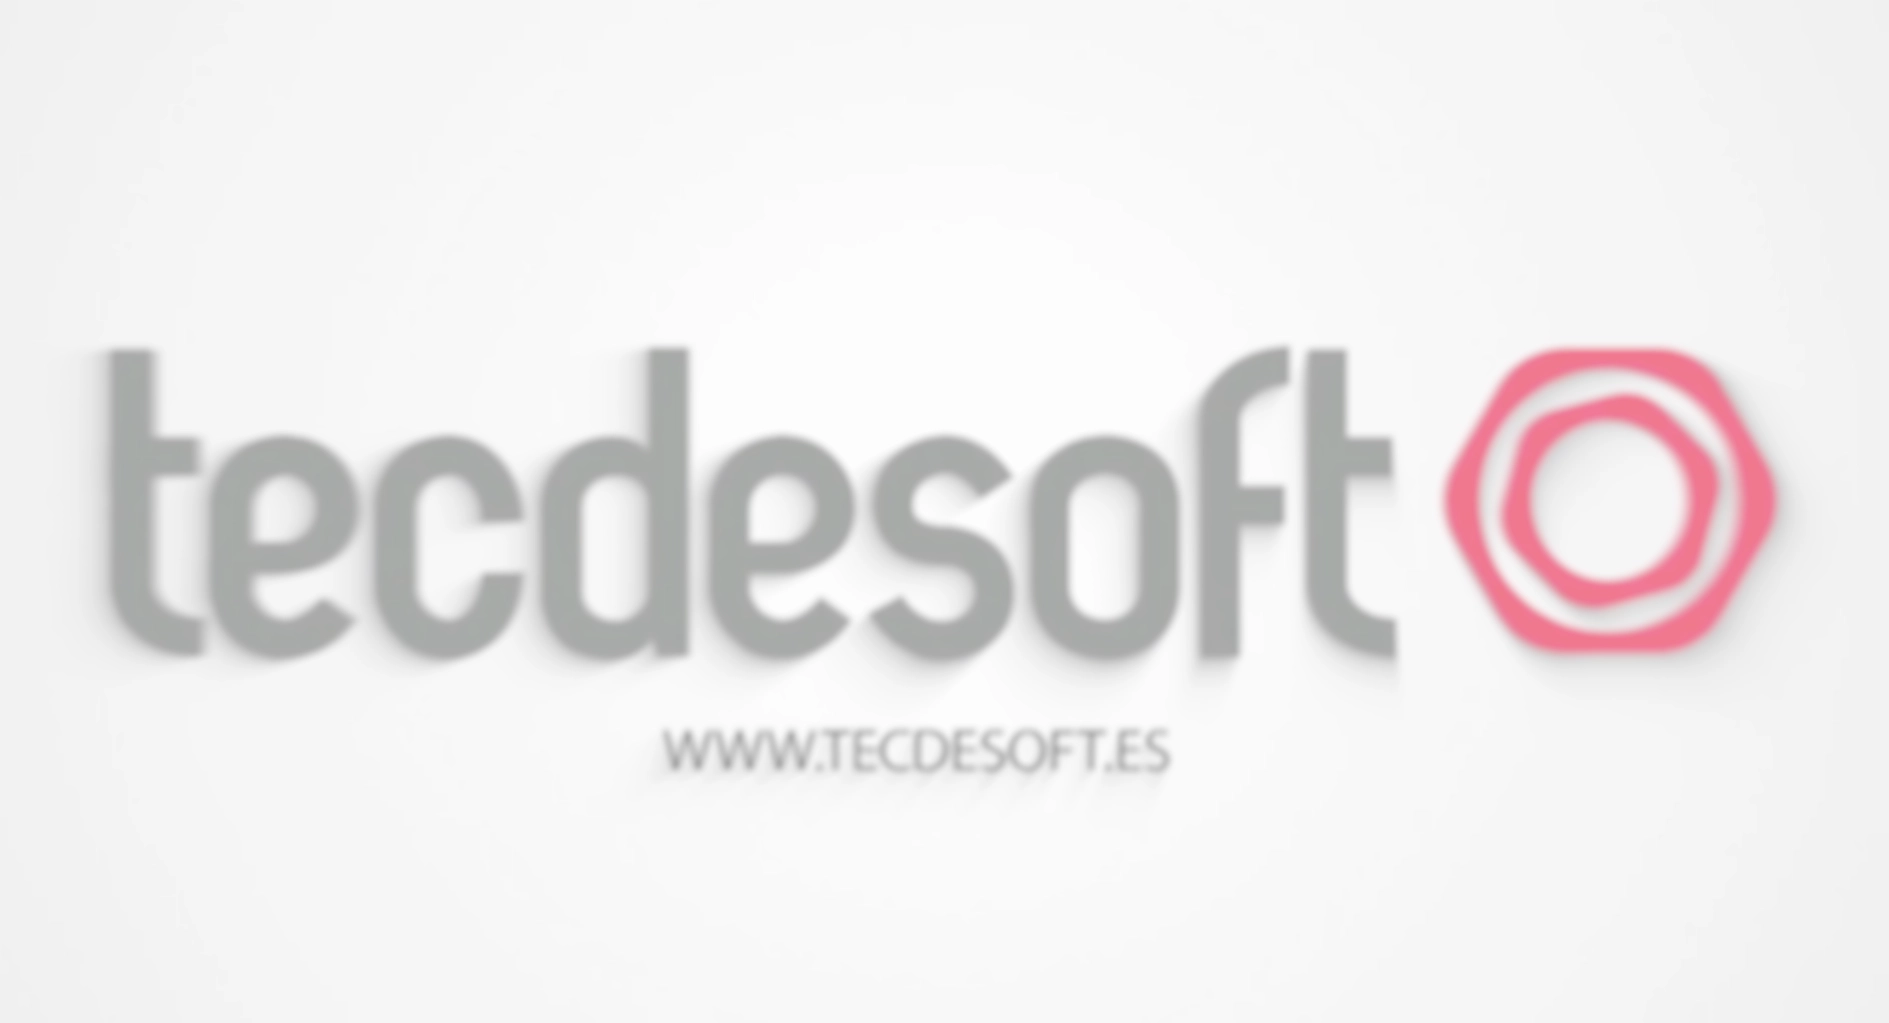
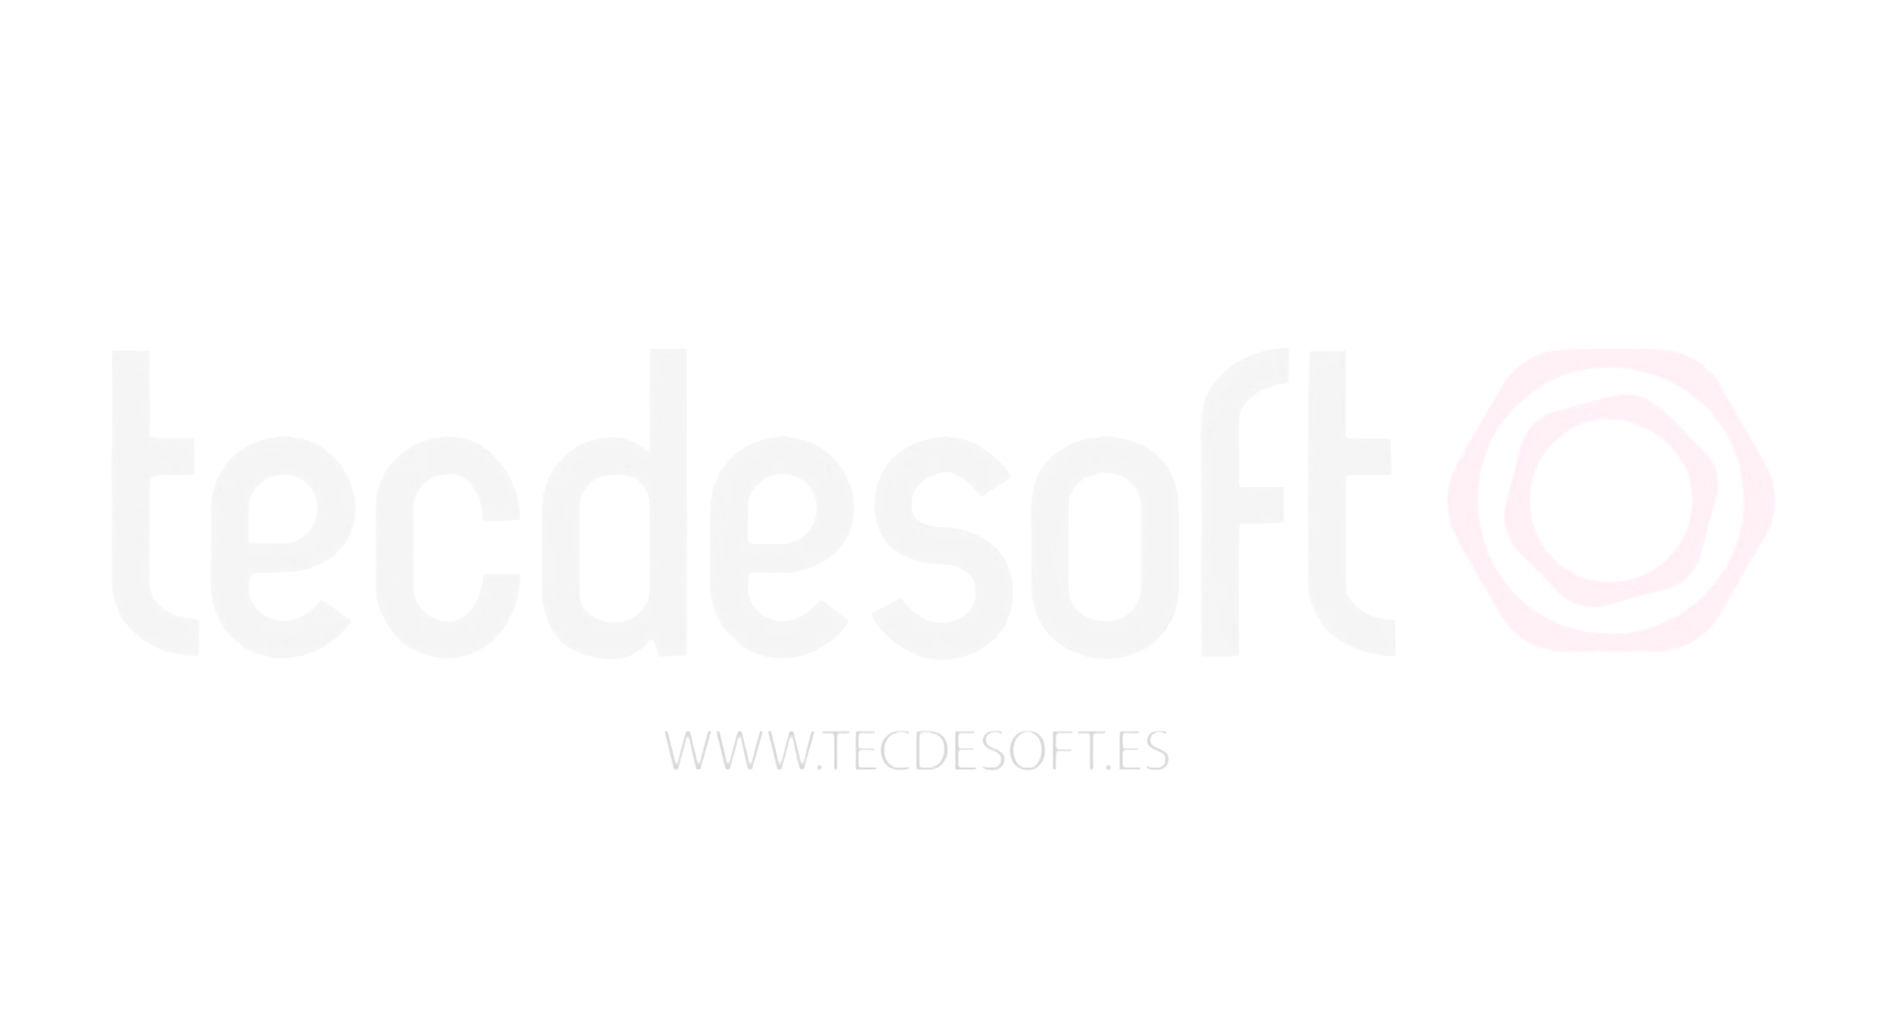
imgen de fondo y css

Changed region(s): [[0.0312, 0.3333, 0.9682, 0.6667], [0.3436, 0.697, 0.6247, 0.7576]]

diff --git a/src/pages/InformPage.js b/src/pages/InformPage.js
@@ -106,7 +106,7 @@ export default function InformPage({ setModalContent }) {
       <div className="inform centered">
         {errorMsg && <div>Se ha producido un error: {errorMsg}</div>}
         {Object.entries(dataArray).map((table) => (
-          <div className="singleGraficDimms centered" key={table}>
+          <div className="googlechart centered" key={table}>
             <Chart
               width={'500px'}
               height={'300px'}
@@ -125,7 +125,7 @@ export default function InformPage({ setModalContent }) {
             />
           </div>
         ))}
-        <div className="singleGraficDimms informTable centered" key="informTable">
+        <div className="googlechart informTable centered" key="informTable">
           <Chart
             chartType="Table"
             data={[

diff --git a/src/App.css b/src/App.css
@@ -133,7 +133,7 @@ input {
   background-color: #fff;
   border-radius: 3px;
   border: 1px solid #ddd;
-  box-shadow: 0 0 29px 5px rgba(0, 0, 0, 0.5);
+  box-shadow: 0 0 10px 0px rgb(0 0 0 / 20%);
   padding: 20px;
   text-align: left;
 }
@@ -238,7 +238,8 @@ input {
   z-index: 11;
 }
 
-.inform .singleGraficDimms {
+.inform .googlechart {
+  background-color: #fff;
   min-height: 300px;
   min-width: 500px;
 }
